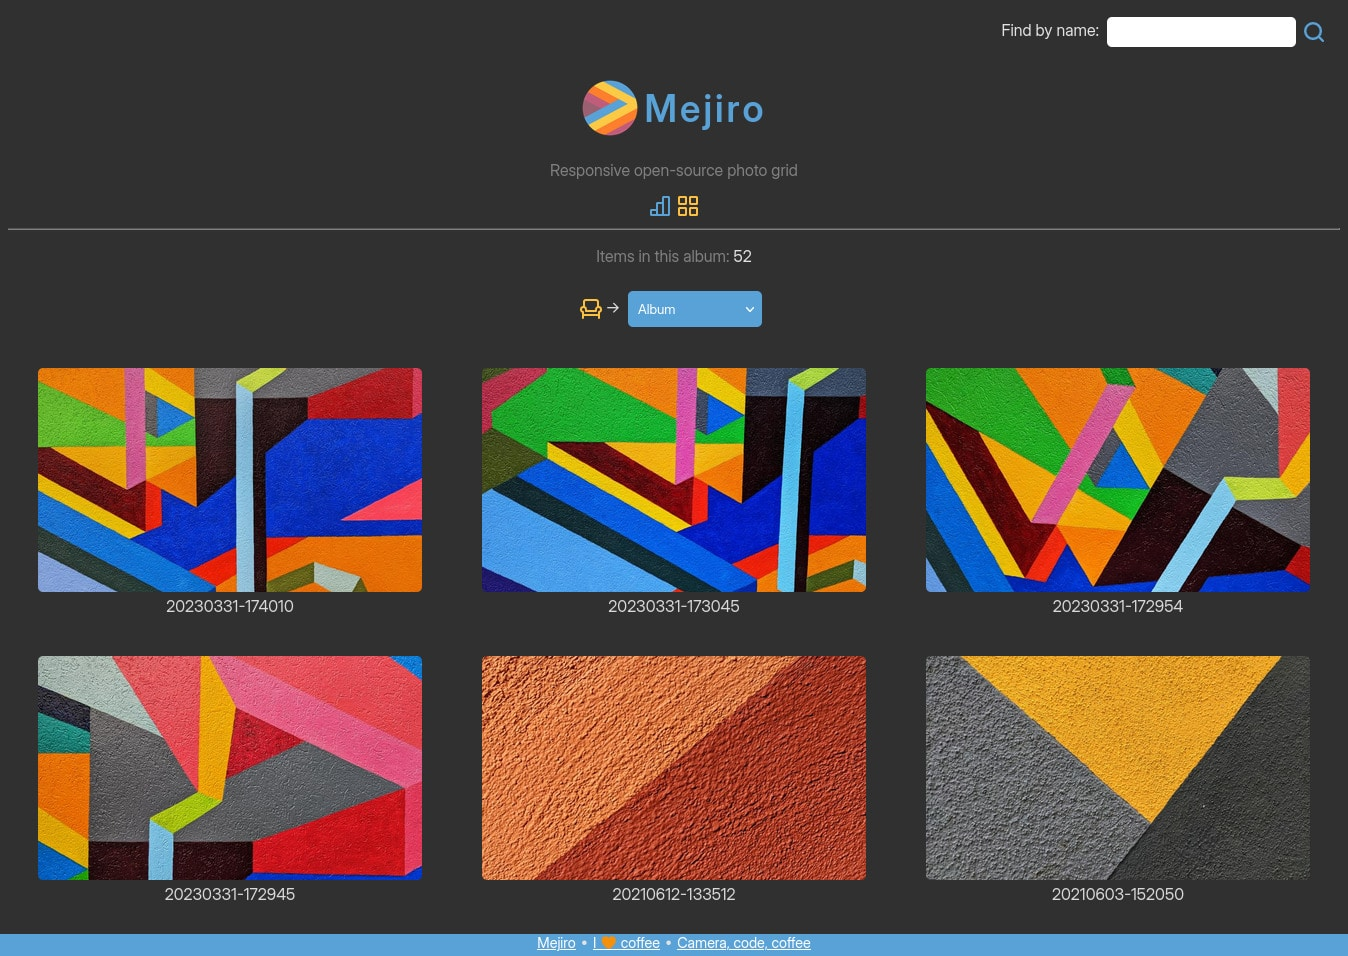
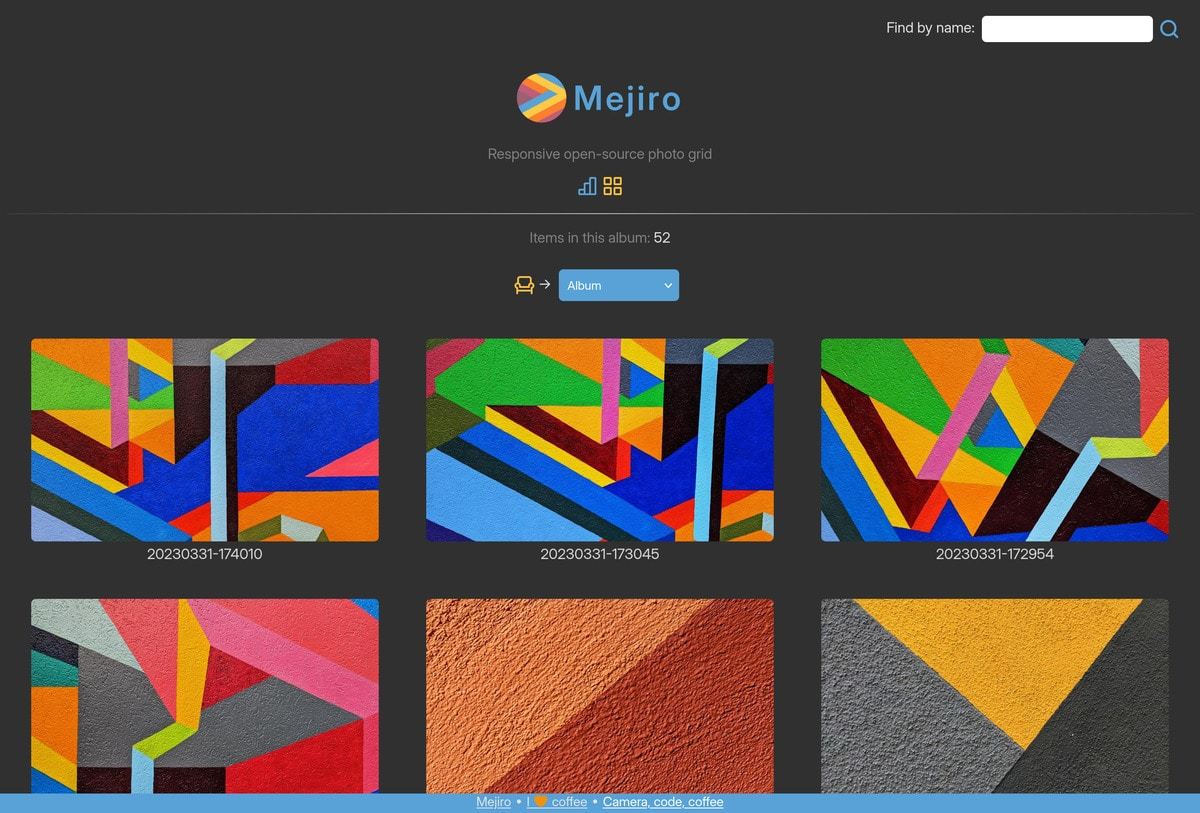
Minor tweaks

diff --git a/styles.css b/styles.css
@@ -27,6 +27,19 @@ a {
   color: #e3e3e3;
 }
 
+hr {
+  border: 0;
+  height: 1px;
+  margin-bottom: 1em;
+  margin-top: 1em;
+  background-image: linear-gradient(
+    to right,
+    rgba(183, 183, 183, 0.1),
+    rgba(183, 183, 183, 183),
+    rgba(183, 183, 183, 0.1)
+  );
+}
+
 h1 {
   color: #59a2d8ff;
   font-family: "Inter", sans-serif;
@@ -79,7 +92,7 @@ p {
   color: #e3e3e3;
   margin-left: auto;
   margin-right: auto;
-  margin-top: 0.5em;
+  margin-top: 1em;
   line-height: 1.5em;
   text-align: center;
 }

diff --git a/index.php b/index.php
@@ -251,7 +251,7 @@ set_time_limit(600);
 					$dir_option = str_replace('\'', '&apos;', $sub_photo_dir . DIRECTORY_SEPARATOR . $dir_name);
 					echo "<option value='?d=" . ltrim($dir_option, '/') . "'>" . $dir_name . "</option>";
 				}
-				echo "</select>";
+				echo "</select></div>";
 			}
 		?>
 
@@ -344,7 +344,7 @@ set_time_limit(600);
 			$url = (isset($_SERVER['HTTPS']) ? "https" : "http") . "://$_SERVER[HTTP_HOST]$_SERVER[REQUEST_URI]";
 			$_SESSION['page'] = $url;
 
-			echo "<h1 style='margin-bottom:1em; margin-top: 1em;'>" . $file_path['filename'] . "</h1>";
+			echo "<h1 style='margin-top: 1em;'>" . $file_path['filename'] . "</h1><hr>";
 
 			// NAVIGATION LINKS
 			// Set first and last photo navigation links according to specified	 sort order
@@ -423,7 +423,7 @@ set_time_limit(600);
 			if ($download) {
 				echo '<div class="center"><img style="max-width: 100%; border-radius: 7px;" src="' . htmlentities($tim) . '" alt="' . $file_path['filename'] . '" title="' . $file_path['filename'] . '"><div class="caption">' . $comment . ' ' . $description . '</div>';
 				echo '<div class="caption">' . $exif_info . '</div>';
-				echo '<div class="caption" style="margin-top: 1em;">' . $image_download . $raw_download . $image_delete . '</div></div>';
+				echo '<div class="caption">' . $image_download . $raw_download . $image_delete . '</div></div>';
 			} else {
 				echo '<div class="center"><img style="max-width: 100%; border-radius: 7px;" src="' . htmlentities($tim) . '" alt="' . $file_path['filename'] . '" title="' . $file_path['filename'] . '"><div class="caption">' . $comment . ' ' . $description . '</div>';
 				echo '<div class="caption">' . $exif_info . "<span style='margin-left: 1em;'>" . $image_delete . '</span></div></div>';
